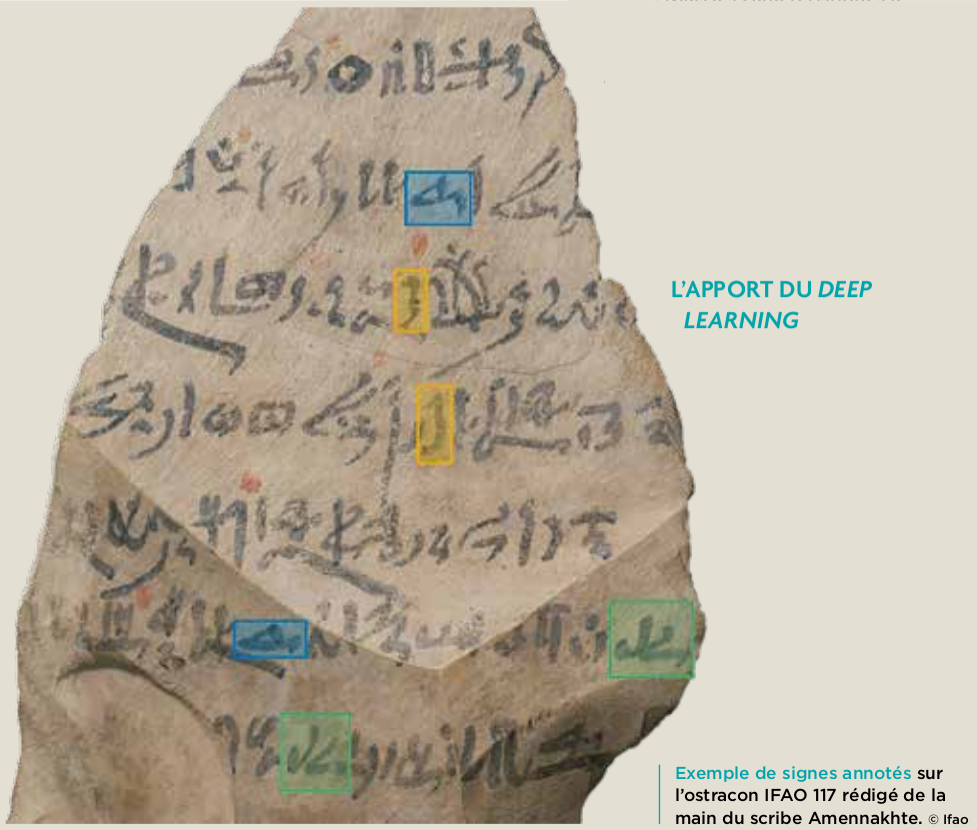
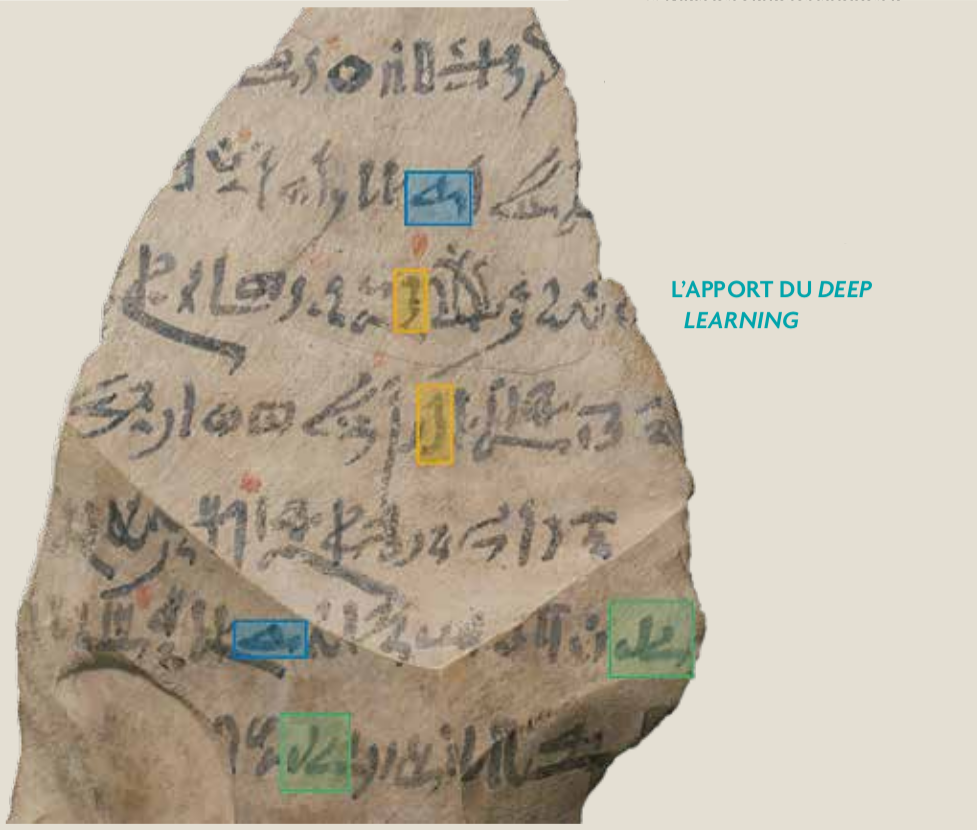
Trying to include figure in epytology post.

Changed region(s): [[0.6755, 0.9036, 0.9826, 0.994]]

diff --git a/blog/2021-03-04-Egyptologie.md b/blog/2021-03-04-Egyptologie.md
@@ -32,6 +32,20 @@ Cet article a été initialement publié le 04/03/2021 dans [Archeologia Magazin
 **Depuis 2019, L’Ifao et Sorbonne Université mènent conjointement un programme de recherches (ÉCRITURES – Pour une archéologie et une anthropologie des écritures de l’Égypte ancienne) afin de mieux comprendre les usages des différentes graphies égyptiennes et les acteurs impliqués. Si les textes de la vie courante (administration, lettres, littérature, sciences, textes magiques et rituels) étaient inscrits en hiératique, l’écriture principale des scribes égyptiens, une cursive dérivée des hiéroglyphes, ces derniers demeuraient limités à des usages monumentaux et sacrés.**
 
 
+<img width="33%" src="https://raw.githubusercontent.com/blog/img/2021-03-04-Egyptologie/Ostracon-IFAO_117.jpg"/> 
+
+
+<p>
+<img src="img/2021-03-04-Egyptologie/Ostracon-IFAO_117.jpg?raw=true" width="200" />
+</p>
+
+
+![Annotation de l’ostracon IFAO 117](./img/2021-03-04-Egyptologie/Ostracon-IFAO_117.jpg "Annotation de l’ostracon IFAO 117")
+<div style={{'textAlign':'center', 'marginLeft': '9em', 'marginRight': '9em', 'marginBottom': '5em'}}>
+Exemple de signes annotés sur l’ostracon IFAO 117 rédigé de la main du scribe Amennakhte. © Ifao.
+</div>
+
+
 # Identifier les mains pour connaître les lettrés
 <!-- IDENTIFIER LES MAINS POUR CONNAÎTRE LES LETTRÉS -->
 
